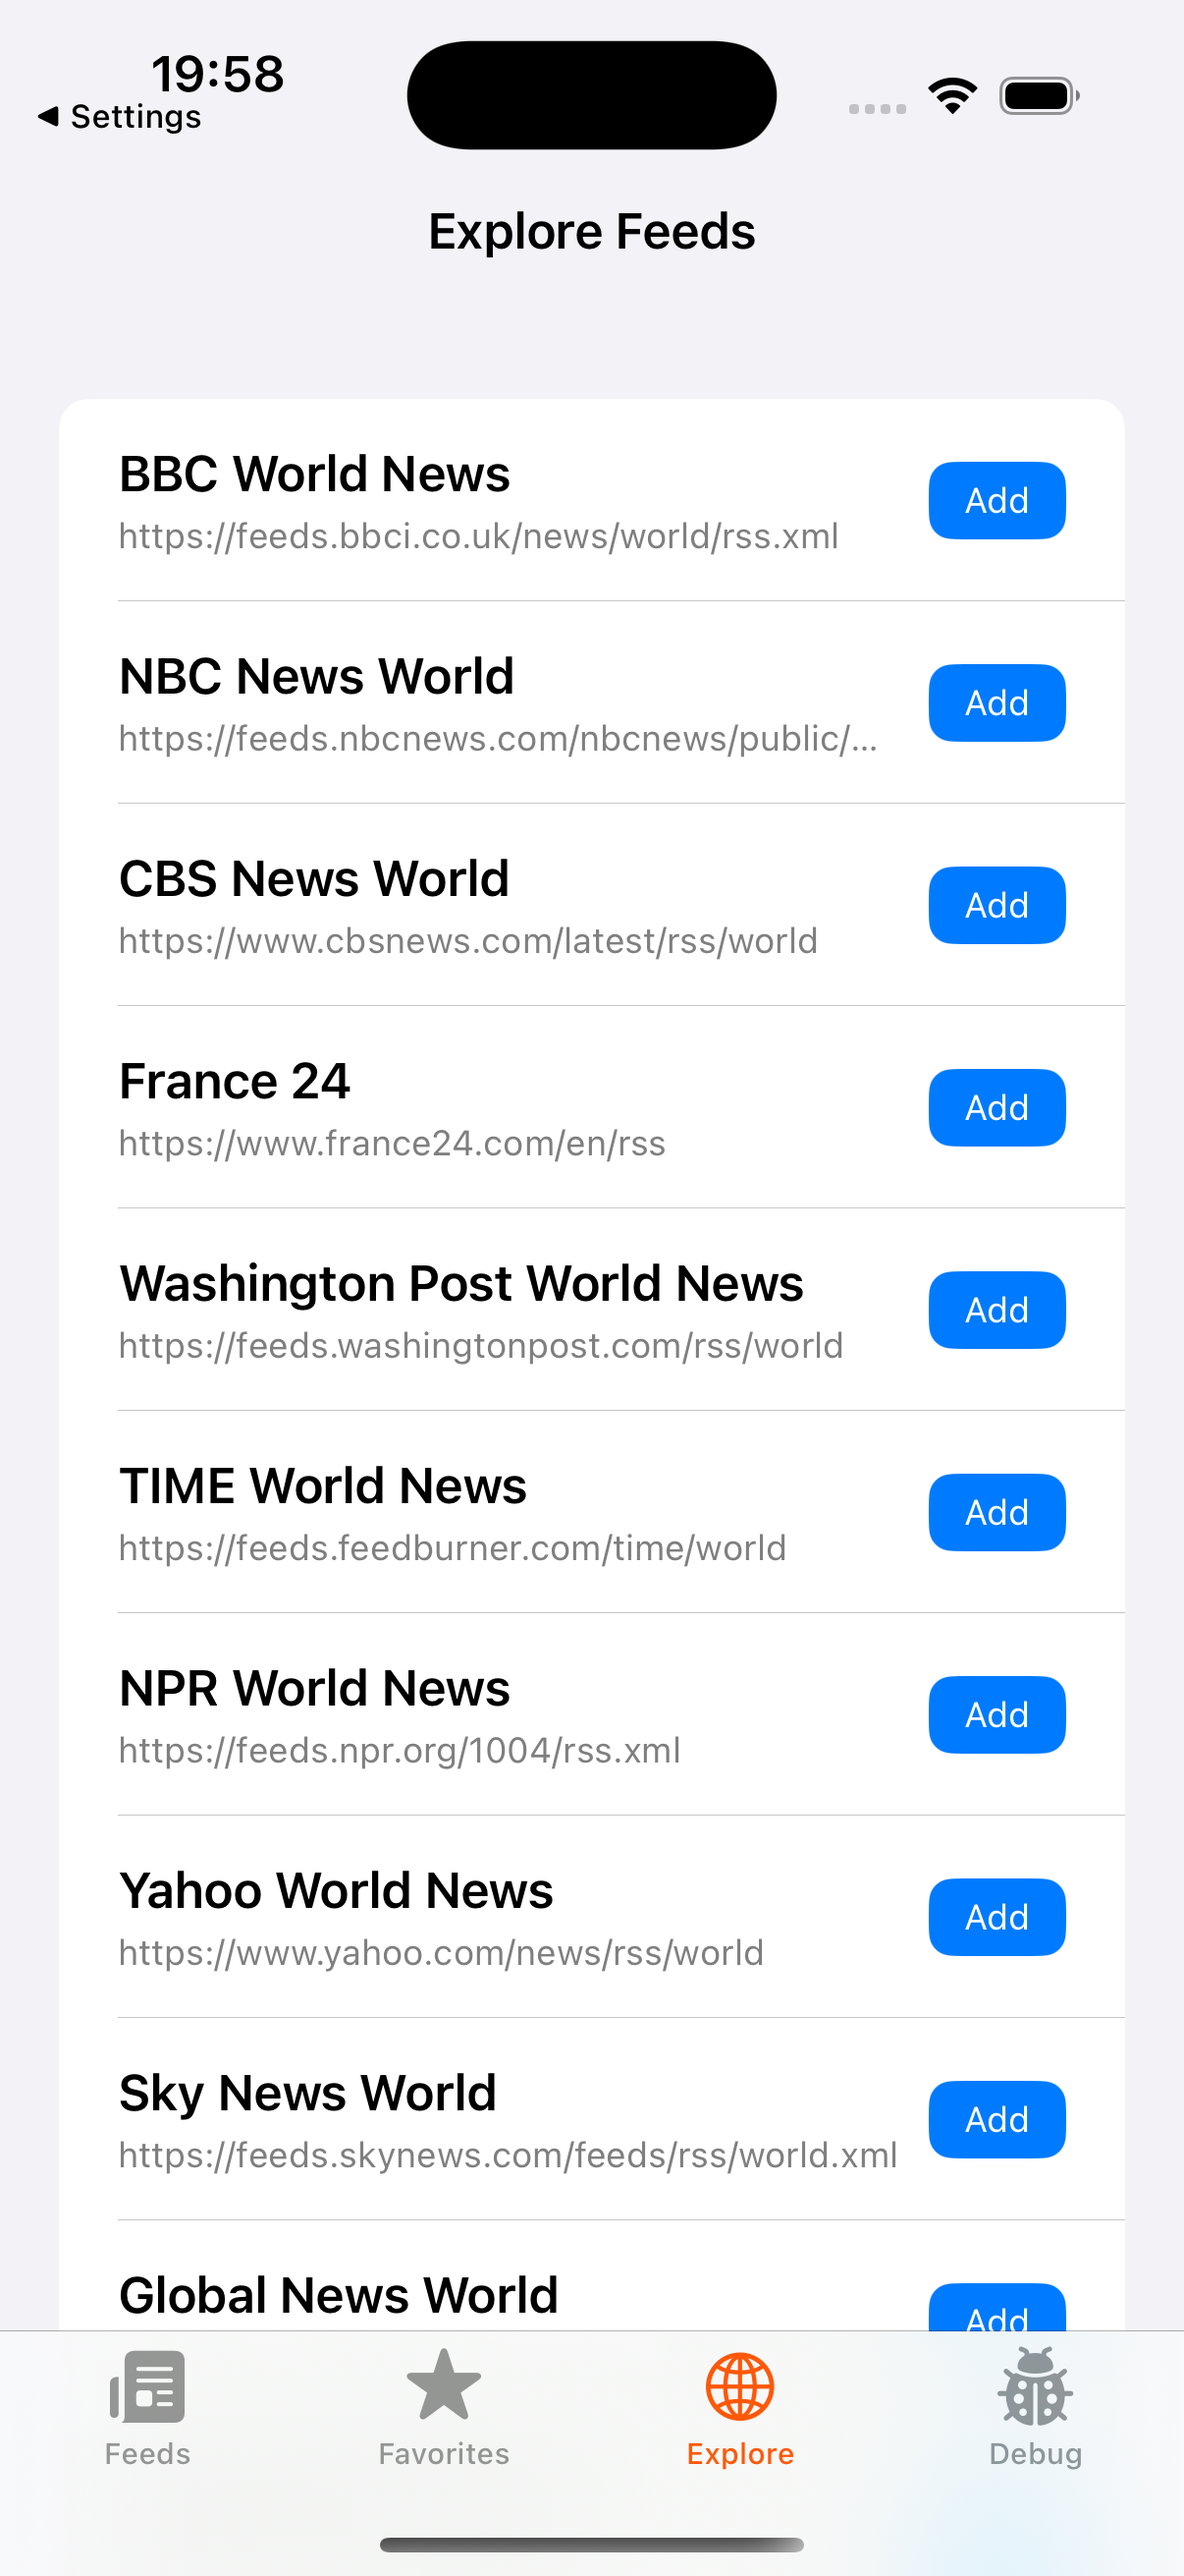
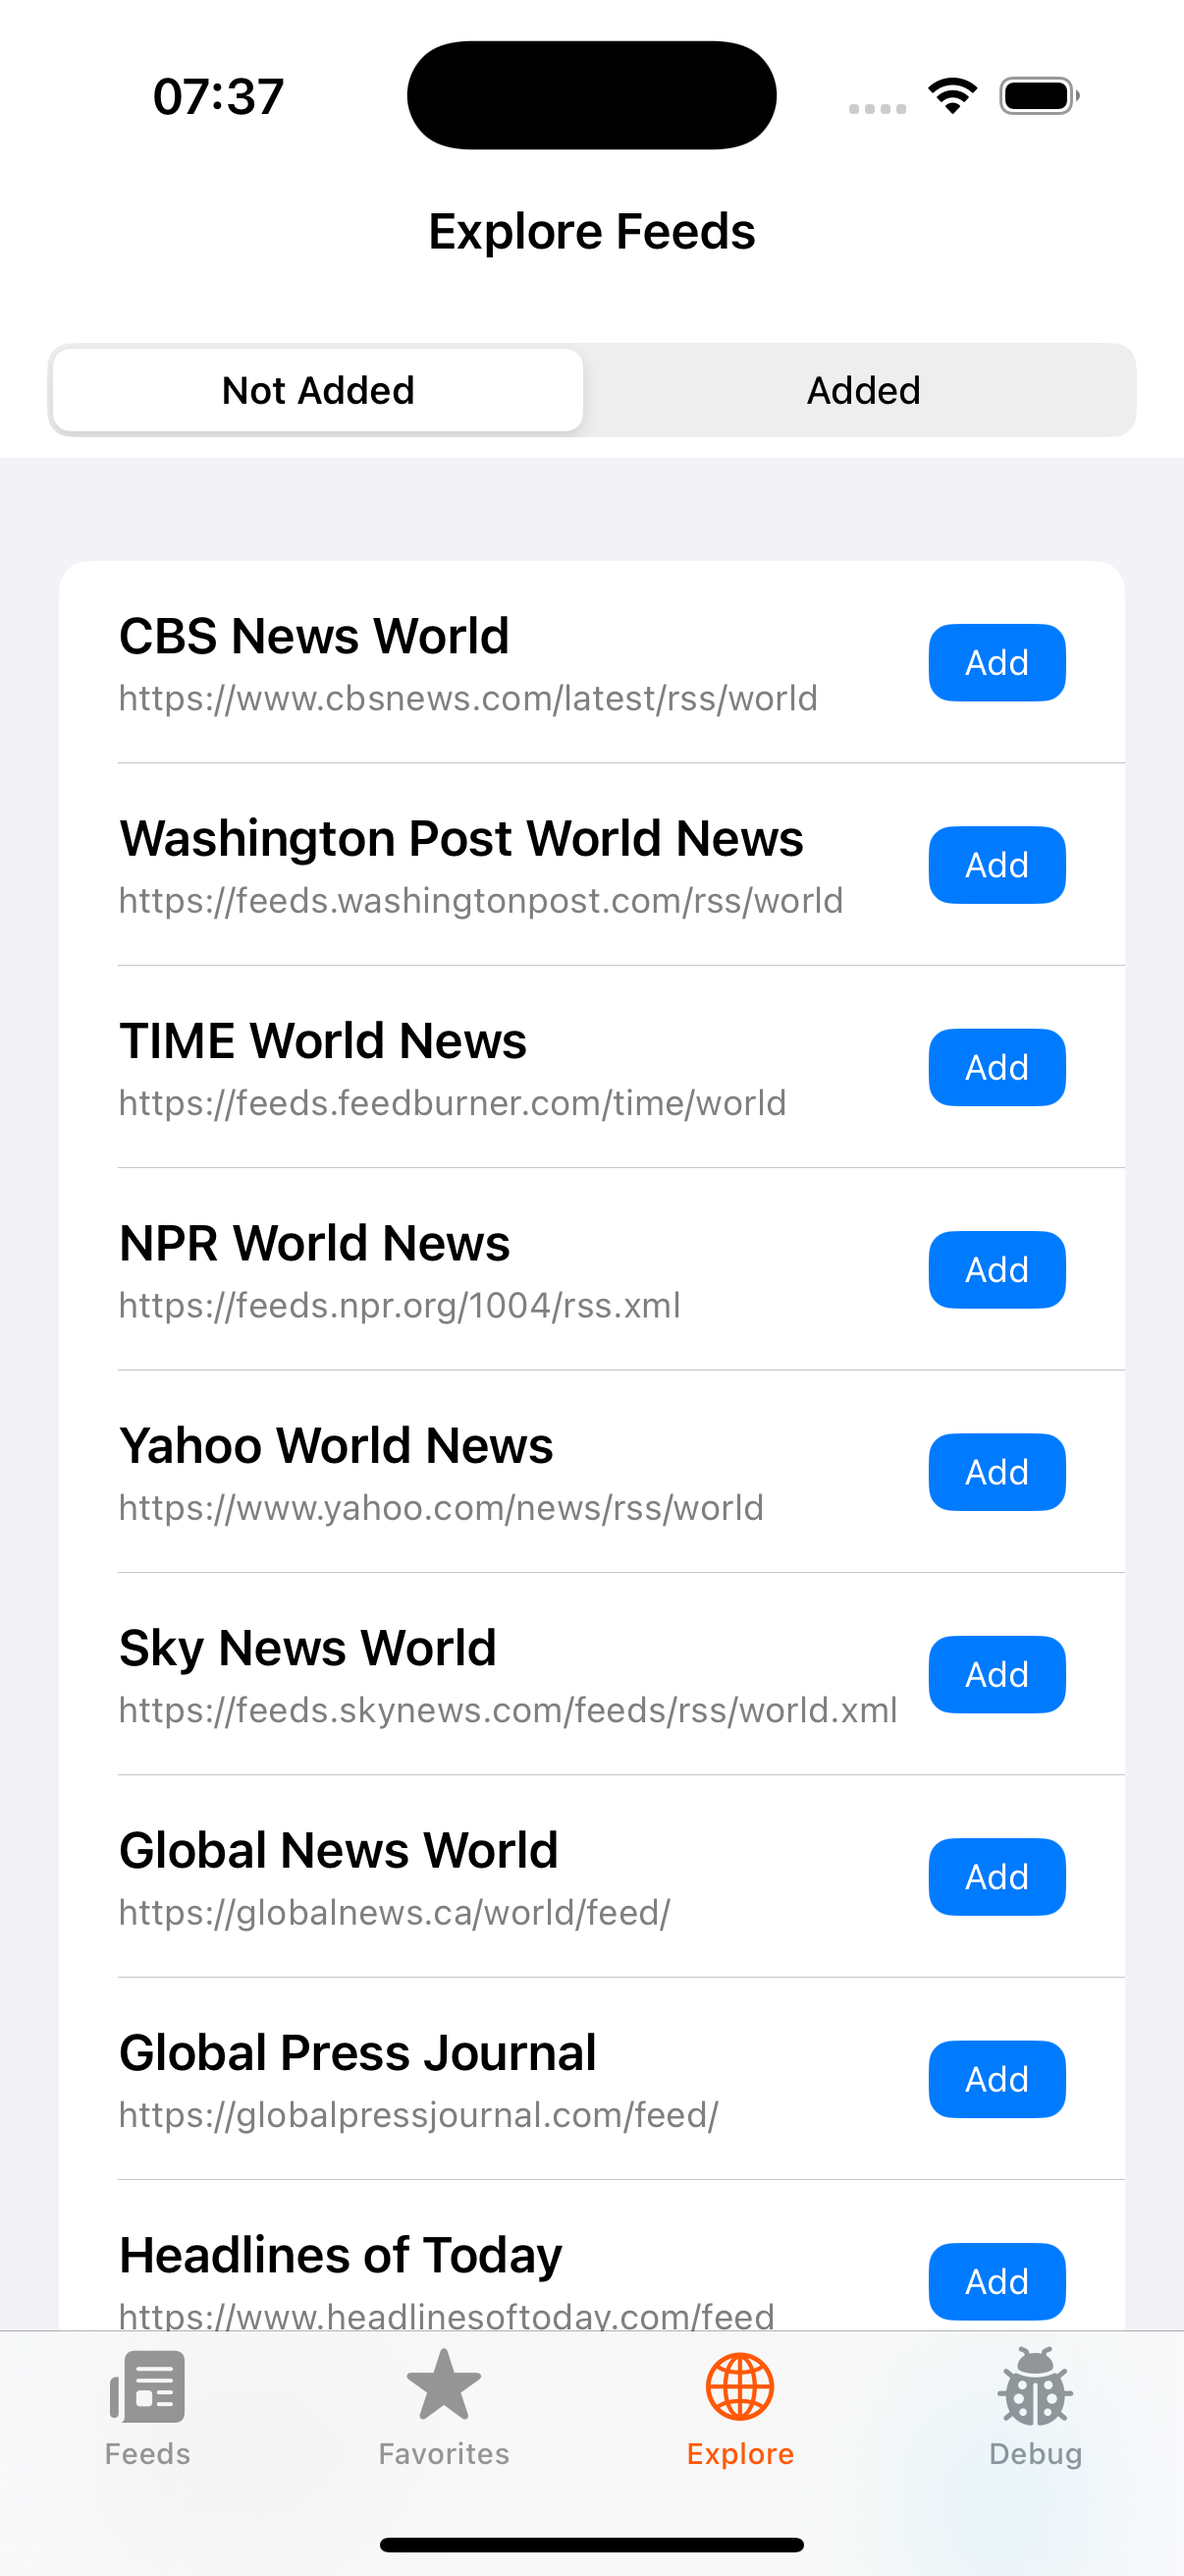
Update screenshots and README

diff --git a/README.md b/README.md
@@ -3,7 +3,7 @@
 ![Swift](https://img.shields.io/badge/Swift-6.0-orange.svg)
 ![Platforms](https://img.shields.io/badge/Platform-iOS%2017-blue.svg)
 ![License](https://img.shields.io/badge/License-MIT-green.svg)
-![Coverage](https://img.shields.io/badge/Coverage-80%-green.svg)
+![Coverage](https://img.shields.io/badge/Coverage-80%25-green.svg)
 
 An iOS application for reading and managing RSS feeds, built with a focus on clean architecture, testability, and modern iOS development practices. The project is structured as a modular Swift Package with clear separation of concerns.
 
@@ -42,10 +42,18 @@ An iOS application for reading and managing RSS feeds, built with a focus on cle
 
 <p align="center">
   <img src="RSSReader/Screenshots/Explore.png" width="200" alt="Explore">
+  <img src="RSSReader/Screenshots/Explore added feeds empty.png" width="200" alt="Empty added feeds">
+</p>
+<p align="center">
+<em>Left: Explore tab with suggested feeds to add - Right: Explore added feeds view showing no added feeds</em>
+</p>
+
+<p align="center">
+  <img src="RSSReader/Screenshots/Explore added feeds.png" width="200" alt="Explore added feeds">
   <img src="RSSReader/Screenshots/Debug view.png" width="200" alt="Debug">
 </p>
 <p align="center">
-  <em>Left: Explore tab with suggested feeds to add - Right: Debug panel for testing notifications and background tasks</em>
+  <em>Left: Explore tab with added feeds which can be removed - Right: Debug panel for testing notifications and background tasks</em>
 </p>
 
 ## Dependencies
